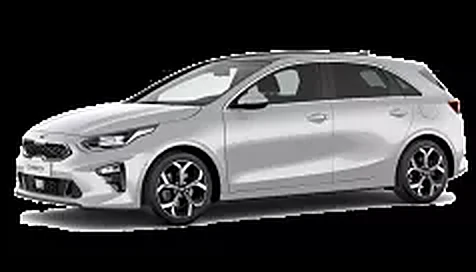
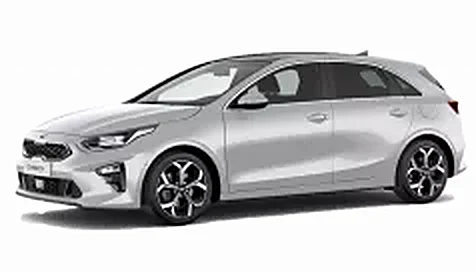
Починить таймер при reduce-motion и белый фон фото в слайдере
- Таймер/автоплей замирал на браузерах с системным «reduce motion»:
  библиотека motion сама глушит анимацию по этой настройке. Обернул в
  <MotionConfig reducedMotion="never"> — теперь работает одинаково везде,
  анимация всегда полная.
- Renault Logan (и Kia Ceed) шли с прозрачным фоном, а из-за моего
  convert('RGB') заливались чёрным — было видно артефакты вырезки.
  Перекачал оригиналы и наложил на белый фон; фон под фото в карточке
  тоже сделал белым.
- Добавил ?v=2 к подключению бандла, чтобы не кешировалась старая версия.

https://claude.ai/code/session_01NXibTHtMHHGBXovYPWVEaH

diff --git a/cars-slider/src/CarsSlider.tsx b/cars-slider/src/CarsSlider.tsx
@@ -1,5 +1,5 @@
 import { useEffect, useRef, useState, CSSProperties } from 'react';
-import { motion, AnimatePresence } from 'motion/react';
+import { motion, AnimatePresence, MotionConfig } from 'motion/react';
 import { ChevronLeft, ChevronRight, Pause, Play, Check, ArrowRight } from 'lucide-react';
 import { cars } from './cars';
 
@@ -10,24 +10,14 @@ const LINE = 'var(--line, #e7e7e3)';
 const DURATION = 4000; // ms per card
 
 const N = cars.length;
-const reduceMotion =
-  typeof window !== 'undefined' &&
-  window.matchMedia &&
-  window.matchMedia('(prefers-reduced-motion: reduce)').matches;
 
-const slideVariants = reduceMotion
-  ? {
-      enter: { opacity: 0, x: 0, rotateY: 0, scale: 1 },
-      center: { opacity: 1, x: 0, rotateY: 0, scale: 1, transition: { duration: 0.25 } },
-      exit: { opacity: 0, x: 0, rotateY: 0, scale: 1, transition: { duration: 0.2 } },
-    }
-  : {
-      enter: (dir: number) => ({
-        x: dir > 0 ? 600 : -600,
-        rotateY: dir > 0 ? 40 : -40,
-        opacity: 0,
-        scale: 0.8,
-      }),
+const slideVariants = {
+  enter: (dir: number) => ({
+    x: dir > 0 ? 600 : -600,
+    rotateY: dir > 0 ? 40 : -40,
+    opacity: 0,
+    scale: 0.8,
+  }),
       center: {
         x: 0,
         rotateY: 0,
@@ -102,6 +92,7 @@ export function CarsSlider() {
   const car = cars[index];
 
   return (
+    <MotionConfig reducedMotion="never">
     <div
       style={styles.wrap}
       onMouseEnter={() => setHover(true)}
@@ -213,6 +204,7 @@ export function CarsSlider() {
         </div>
       </div>
     </div>
+    </MotionConfig>
   );
 }
 
@@ -244,7 +236,7 @@ const styles: Record<string, CSSProperties> = {
     position: 'relative',
     textAlign: 'left',
   },
-  imgWrap: { position: 'relative', width: '100%', aspectRatio: '7 / 4', overflow: 'hidden', background: 'var(--bg-soft, #f3f4f1)' },
+  imgWrap: { position: 'relative', width: '100%', aspectRatio: '7 / 4', overflow: 'hidden', background: '#fff' },
   img: { width: '100%', height: '100%', objectFit: 'cover', display: 'block' },
   imgShade: { position: 'absolute', inset: 0, background: 'linear-gradient(to top, rgba(0,0,0,0.45), transparent 55%)' },
   body: { padding: '1.8rem 1.8rem 2rem' },

diff --git a/index.html b/index.html
@@ -989,6 +989,6 @@
 
 <script src="https://unpkg.com/leaflet@1.9.4/dist/leaflet.js" crossorigin=""></script>
 <script src="main.js"></script>
-<script src="assets/cars-slider/spot-cars-slider.js" defer></script>
+<script src="assets/cars-slider/spot-cars-slider.js?v=2" defer></script>
 </body>
 </html>